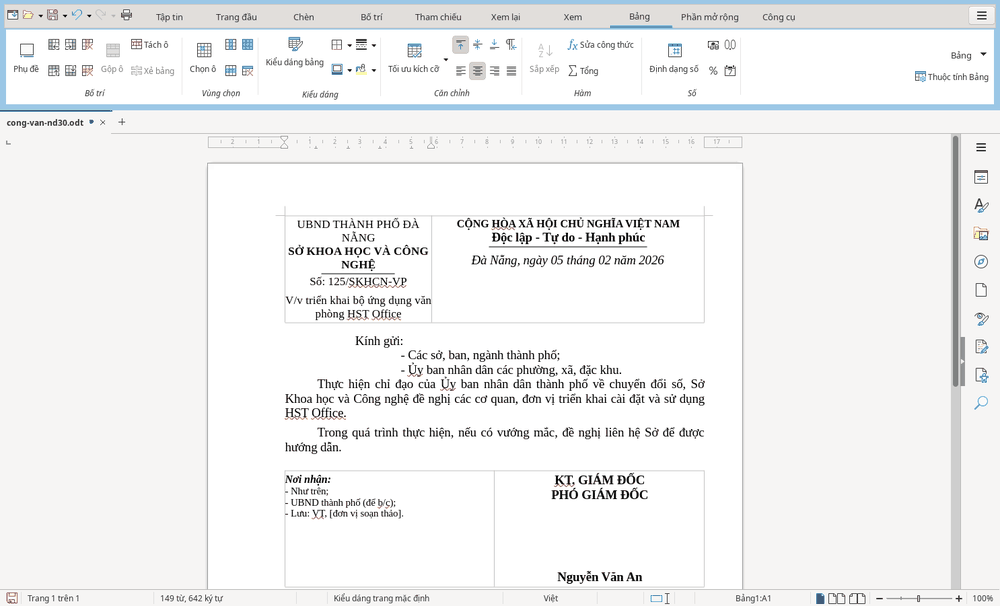
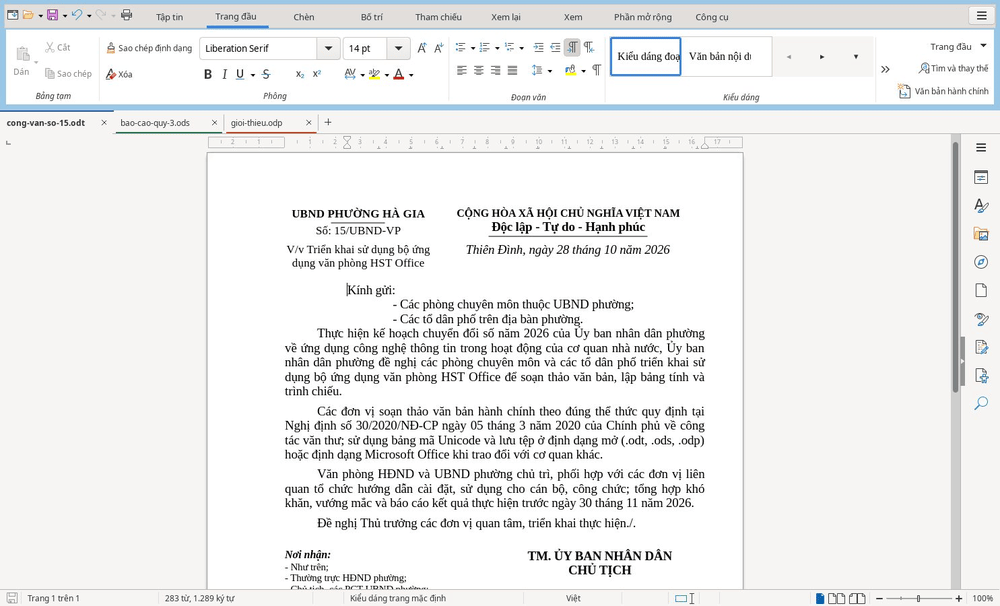
docs(help): use the fictional ward document as the administrative-document result image

diff --git a/extensions/hst-vietnamese-tools/help/nd30.html b/extensions/hst-vietnamese-tools/help/nd30.html
@@ -67,7 +67,7 @@
   <li>Kiểm tra văn bản đã chèn và điền các chỗ giữ chỗ còn lại.</li>
 </ol>
 <p>Công cụ áp dụng phông Times New Roman, cỡ chữ, chữ in hoa, đường kẻ và căn lề theo Phụ lục I của Nghị định.</p>
-<figure><img src="images/nd30-result.png" alt="Công văn sau khi chèn vào HST Writer có phần cơ quan, quốc hiệu, tiêu ngữ, Kính gửi, nội dung, Nơi nhận và chữ ký." loading="lazy" width="1000" height="606"><figcaption>Kết quả chèn công văn vào HST Writer.</figcaption></figure>
+<figure><img src="images/nd30-result.png" alt="Công văn của UBND phường Hà Gia trong HST Writer: tên cơ quan, số ký hiệu, trích yếu, quốc hiệu, tiêu ngữ, địa danh và ngày tháng, Kính gửi, nội dung và Nơi nhận." loading="lazy" width="1000" height="606"><figcaption>Kết quả chèn công văn vào HST Writer.</figcaption></figure>
 <p>Nếu vừa chèn sai, nhấn <span class="keys"><kbd>Ctrl</kbd>+<kbd>Z</kbd></span> một lần để xóa toàn bộ văn bản vừa chèn. Thao tác này không khôi phục các thay đổi trang và lịch sử hoàn tác đã nêu ở trên.</p>
 </article>
 <nav class="page-nav" aria-label="Chuyển trang hướng dẫn">
